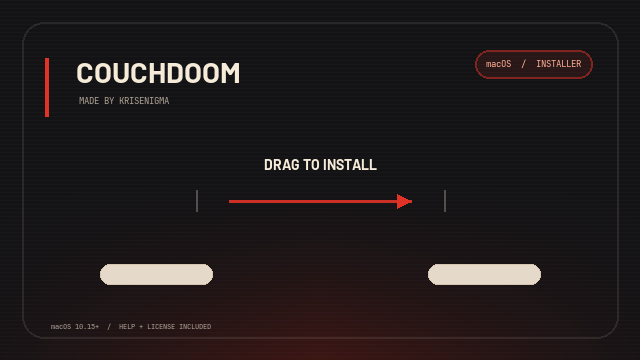
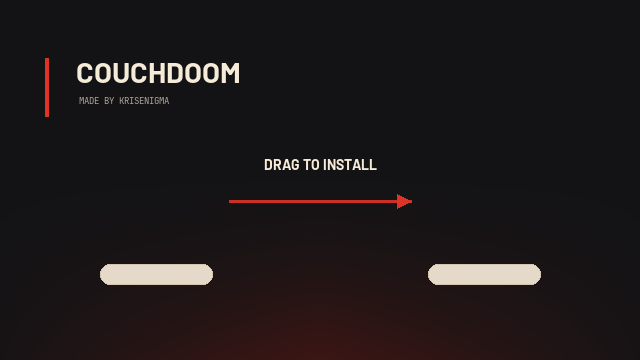
fix: simplify macOS DMG layout

Changed region(s): [[0.7188, 0.1222, 0.9375, 0.2444], [0.1875, 0.8861, 0.3438, 0.9167], [0.0625, 0.8861, 0.1562, 0.9167]]

diff --git a/packaging/make_dmg_background.py b/packaging/make_dmg_background.py
@@ -1,4 +1,4 @@
-"""Render the 2x Finder background used by the macOS drag-to-Applications DMG."""
+"""Render the background for the compact macOS drag-to-Applications DMG."""
 
 from pathlib import Path
 
@@ -8,12 +8,11 @@ from PIL import Image, ImageDraw, ImageFont
 ROOT = Path(__file__).resolve().parent.parent
 OUTPUT = ROOT / "packaging" / "dmg-background.png"
 FONT_DIR = ROOT / "src" / "couch_doom" / "assets" / "fonts"
-SCALE = 1  # Finder treats the background's pixel dimensions as its logical size.
+SCALE = 1  # Keep this canvas matched to --window-size in the release workflow.
 WIDTH, HEIGHT = 640, 360
 
 INK = (19, 19, 21)
 CREAM = (246, 235, 216)
-TAN = (197, 177, 150)
 RED = (224, 51, 39)
 MUTED = (176, 163, 150)
 
@@ -40,37 +39,17 @@ def main() -> None:
             pixels[x, y] = tuple(round(INK[i] * (1 - glow * 0.55) + (93, 24, 18)[i] * glow * 0.55) for i in range(3))
 
     draw = ImageDraw.Draw(image, "RGBA")
-    # Fine CRT-like line work and corner registration marks keep the field textured but quiet.
-    for y in range(HEIGHT):
-        if y % (4 * SCALE) == 0:
-            draw.line((0, y, WIDTH, y), fill=(255, 230, 210, 5), width=1)
-    draw.rounded_rectangle((22, 22, WIDTH - 22, HEIGHT - 22), radius=22, outline=(246, 235, 216, 25), width=2)
+    # Keep the artwork quiet so Finder's app and Applications icons stay prominent.
     draw.line((46, 58, 46, 116), fill=RED + (255,), width=4)
 
-    draw = ImageDraw.Draw(image, "RGBA")
     draw.text((76, 54), "COUCHDOOM", font=font("Barlow-Bold.ttf", 29), fill=CREAM + (255,))
     draw.text((79, 94), "MADE BY KRISENIGMA", font=font("JetBrainsMono-Regular.ttf", 9), fill=MUTED + (255,))
-
-    tag = "macOS  /  INSTALLER"
-    tag_font = font("JetBrainsMono-Regular.ttf", 9)
-    tag_box = draw.textbbox((0, 0), tag, font=tag_font)
-    tag_width = tag_box[2] - tag_box[0]
-    tag_height = tag_box[3] - tag_box[1]
-    pad_x = 11
-    pill_right = WIDTH - 48
-    pill_left = pill_right - tag_width - 2 * pad_x
-    pill_top, pill_bottom = 50, 78
-    draw.rounded_rectangle((pill_left, pill_top, pill_right, pill_bottom), radius=14, fill=(224, 51, 39, 27), outline=(224, 51, 39, 120), width=2)
-    draw.text((pill_left + pad_x, pill_top + (pill_bottom - pill_top - tag_height) // 2 - tag_box[1]), tag, font=tag_font, fill=(255, 174, 148, 255))
 
     # The arrow stays in the empty channel between the app and Applications icons.
     center_text(draw, "DRAG TO INSTALL", (320, 164), font("Barlow-Bold.ttf", 14), CREAM + (255,))
     ay = 201
     draw.line((229, ay, 411, ay), fill=(224, 51, 39, 230), width=3)
     draw.polygon(((411, ay), (397, ay - 7), (397, ay + 7)), fill=RED + (255,))
-    # Small terminal-like ticks link the arrow to the two Finder icon positions.
-    for x in (196, 444):
-        draw.line((x, 190, x, 211), fill=(246, 235, 216, 70), width=2)
 
     # Finder draws icon names in dark text; these warm label beds keep them readable on the charcoal artwork.
     label_y = 274
@@ -81,7 +60,6 @@ def main() -> None:
         draw.rounded_rectangle((left, top, left + label_width, top + label_height), radius=10,
                                fill=(246, 235, 216, 235), outline=(197, 177, 150, 130), width=1)
 
-    draw.text((51, 321), "macOS 10.15+  /  HELP + LICENSE INCLUDED", font=font("JetBrainsMono-Regular.ttf", 7), fill=MUTED + (235,))
     image.save(OUTPUT, optimize=True)
     print(OUTPUT)
 
